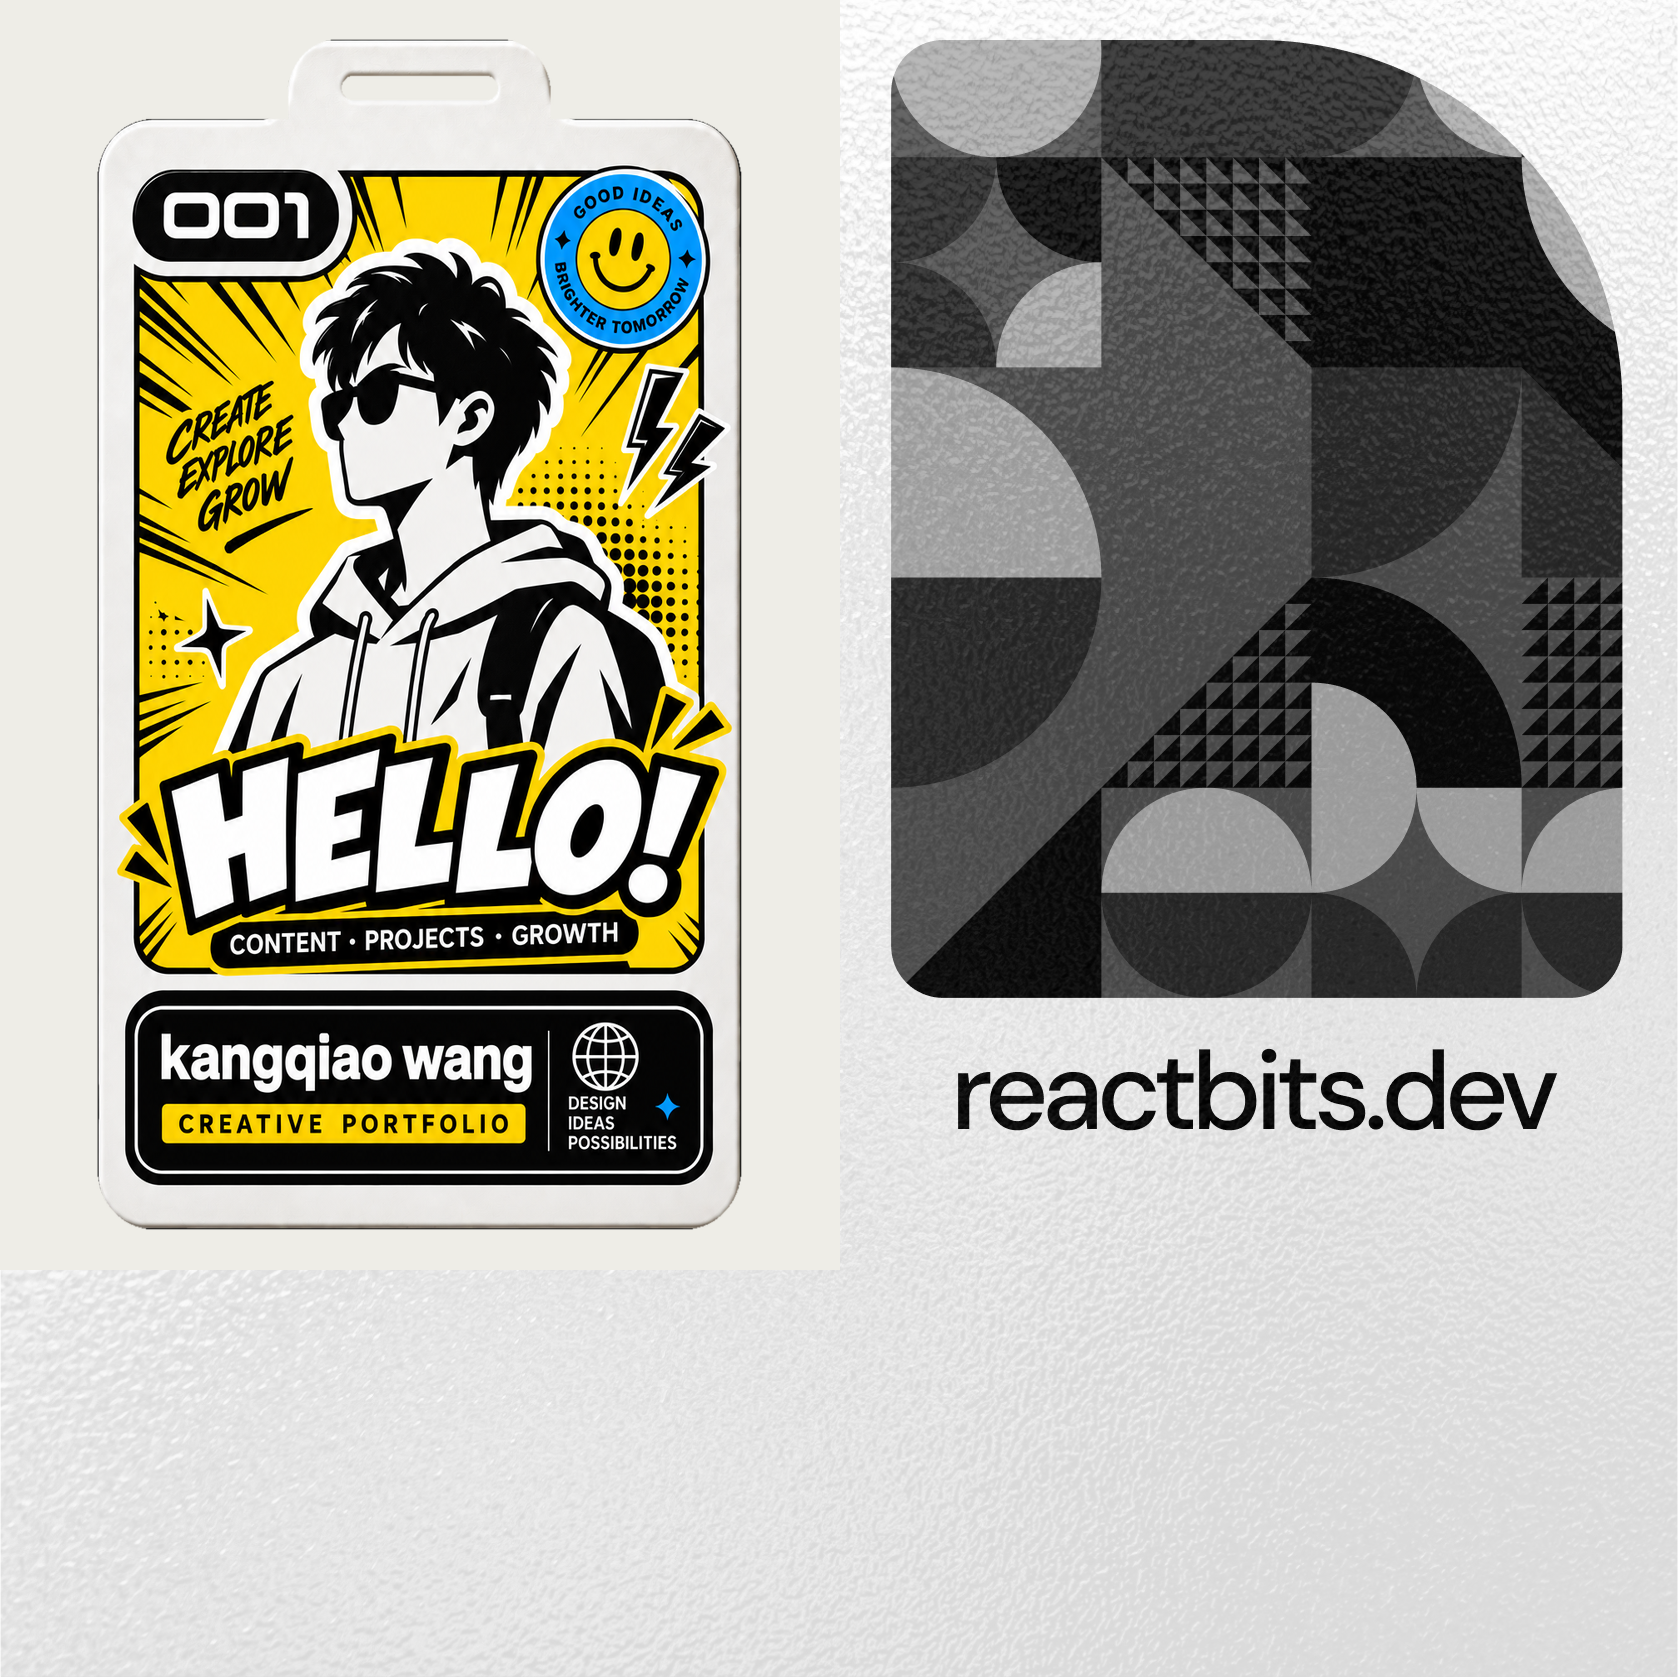
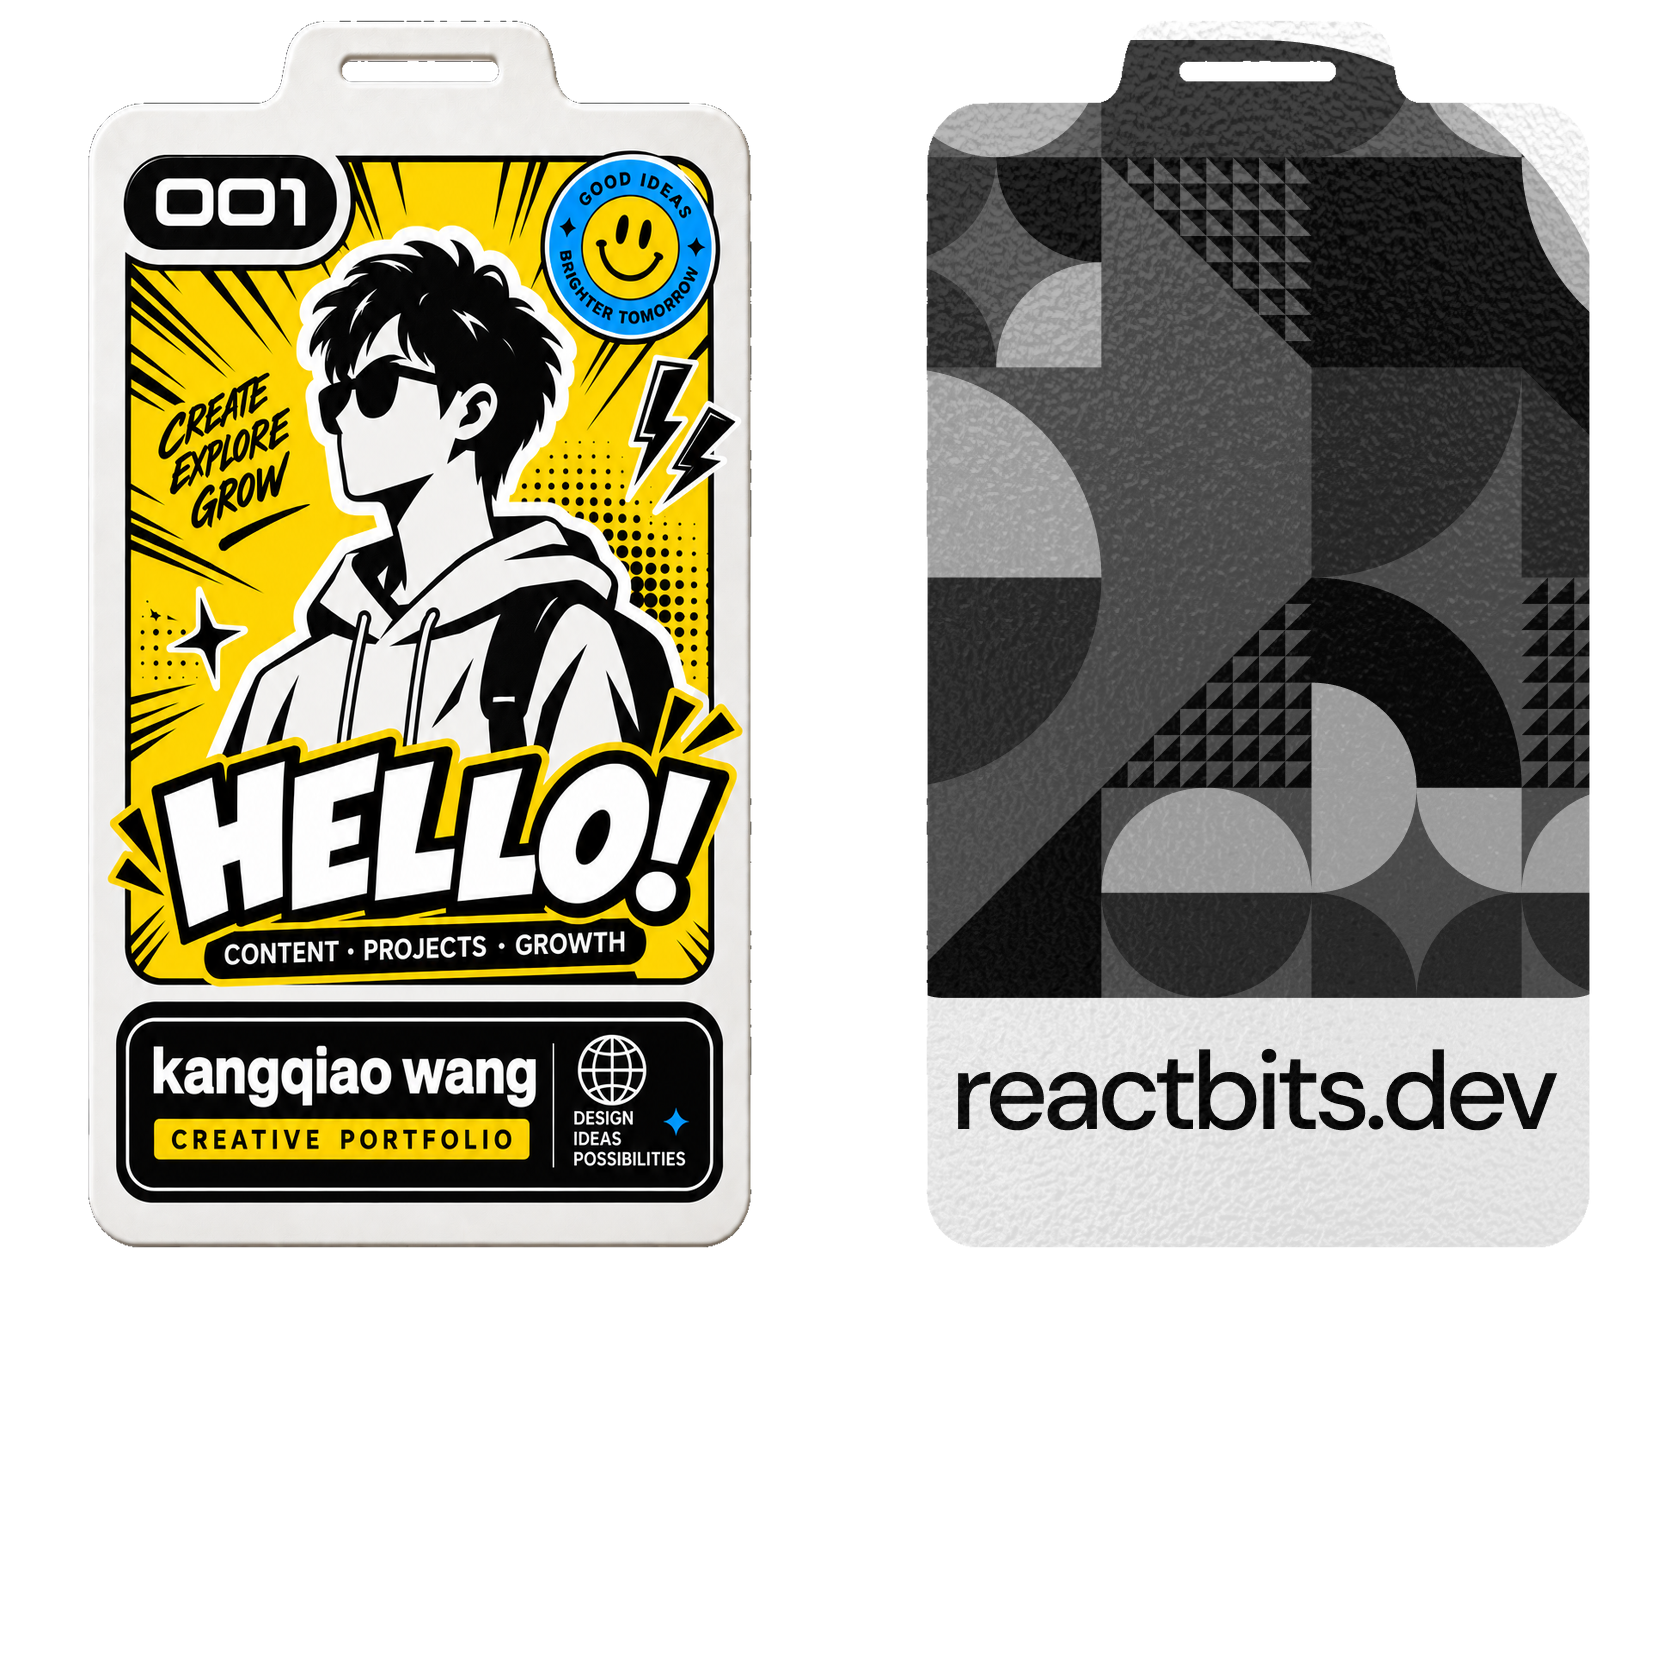
Fix badge cutout, strap scale and unclipped drag interaction

diff --git a/app/lanyard.jsx b/app/lanyard.jsx
@@ -1,7 +1,7 @@
 /* eslint-disable react/no-unknown-property */
 'use client';
 import { useEffect, useMemo, useRef, useState } from 'react';
-import { Canvas, extend, useFrame } from '@react-three/fiber';
+import { Canvas, extend, useFrame, events as createEvents } from '@react-three/fiber';
 import { useGLTF, useTexture, Environment, Lightformer } from '@react-three/drei';
 import { BallCollider, CuboidCollider, Physics, RigidBody, useRopeJoint, useSphericalJoint } from '@react-three/rapier';
 import { MeshLineGeometry, MeshLineMaterial } from 'meshline';
@@ -16,10 +16,6 @@ import './lanyard.css';
 
 extend({ MeshLineGeometry, MeshLineMaterial });
 
-// 1x1 transparent pixel — lets useTexture be called unconditionally when a
-// front/back image isn't supplied.
-const BLANK_PIXEL =
[1 lines of base64/hex data omitted]
 
 // The card model's front face is UV-mapped to the LEFT half of the texture
 // atlas and the back face to the RIGHT half (measured from card.glb). Each
@@ -37,19 +33,31 @@ export default function Lanyard({
   backImage = null,
   imageFit = 'cover',
   lanyardImage = null,
-  lanyardWidth = 1
+  lanyardWidth = 0.7
 }) {
   const [isMobile, setIsMobile] = useState(() => typeof window !== 'undefined' && window.innerWidth < 768);
 
   useEffect(() => {
+    const surface = document.querySelector('.ref-about');
+    const stopImageDrag = (event) => event.preventDefault();
+    surface?.addEventListener('dragstart', stopImageDrag);
     const handleResize = () => setIsMobile(window.innerWidth < 768);
     window.addEventListener('resize', handleResize);
-    return () => window.removeEventListener('resize', handleResize);
+    return () => { window.removeEventListener('resize', handleResize); surface?.removeEventListener('dragstart', stopImageDrag); };
   }, []);
 
   return (
     <div className="lanyard-wrapper">
       <Canvas
+        eventSource={document.querySelector('.ref-about') || undefined}
+        events={(state) => ({
+          ...createEvents(state),
+          compute: (event, current) => {
+            const rect = current.gl.domElement.getBoundingClientRect();
+            current.pointer.set(((event.clientX - rect.left) / rect.width) * 2 - 1, -((event.clientY - rect.top) / rect.height) * 2 + 1);
+            current.raycaster.setFromCamera(current.pointer, current.camera);
+          },
+        })}
         camera={{ position: position, fov: fov }}
         dpr={[1, isMobile ? 1.5 : 2]}
         gl={{ alpha: transparent }}
@@ -131,8 +139,8 @@ function Band({
   const texture = useTexture(lanyardImage || lanyard);
   // useTexture must be called unconditionally; use a blank pixel when an image
   // isn't supplied for a given face, then skip compositing it below.
-  const frontTex = useTexture(frontImage || BLANK_PIXEL);
-  const backTex = useTexture(backImage || BLANK_PIXEL);
+  const frontTex = useTexture(frontImage || sitePath('/assets/lanyard/card-atlas.png'));
+  const backTex = useTexture(backImage || sitePath('/assets/lanyard/card-atlas.png'));
 
   // Composite the front/back images into the card's texture atlas (front = left
   // half, back = right half). Each image is drawn aspect-preserving (no stretch).
@@ -265,6 +273,9 @@ function Band({
               <meshPhysicalMaterial
                 map={cardMap}
                 map-anisotropy={16}
+                alphaTest={0.45}
+                transparent={false}
+                depthWrite={true}
                 clearcoat={isMobile ? 0 : 1}
                 clearcoatRoughness={0.15}
                 roughness={0.9}
@@ -284,8 +295,8 @@ function Band({
           resolution={isMobile ? [1000, 2000] : [1000, 1000]}
           useMap
           map={texture}
-          repeat={[-4, 1]}
-          lineWidth={lanyardWidth}
+          repeat={[-0.65, 1]}
+          lineWidth={lanyardWidth * (isMobile ? 0.55 : 1)}
         />
       </mesh>
     </>

diff --git a/app/lanyard.css b/app/lanyard.css
@@ -1,5 +1,6 @@
 .lanyard-wrapper{position:relative;width:100%;height:100%;touch-action:none}
-.ref-lanyard{position:absolute;z-index:5;left:10%;top:0;width:30%;height:100%;overflow:hidden;touch-action:none}
-.ref-lanyard__canvas{position:absolute;width:300%;height:300%;left:-100%;top:-115%}
+.ref-lanyard{position:absolute;z-index:20;left:10%;top:0;width:30%;height:100%;overflow:visible;pointer-events:auto;touch-action:none}
+.ref-lanyard__canvas{position:absolute;width:600%;height:300%;left:-250%;top:-115%;pointer-events:none}
+.ref-lanyard canvas{pointer-events:none!important}
 .ref-lanyard__static{position:absolute;width:74%;height:70%;object-fit:contain;left:13%;top:14%;filter:drop-shadow(15px 22px 18px #0005)}
-@media(max-width:720px) and (orientation:portrait){.ref-lanyard{position:relative;order:2;left:auto;top:auto;width:100%;height:510px;flex:none}.ref-lanyard__canvas{height:270%;top:-95%}.ref-lanyard__static{height:90%;top:5%}}
+@media(max-width:720px) and (orientation:portrait){.ref-lanyard{position:relative;order:2;left:auto;top:auto;width:100%;height:510px;flex:none;clip-path:inset(0 -100vw)}.ref-lanyard__canvas{height:270%;top:-95%}.ref-lanyard__static{height:90%;top:5%}}
